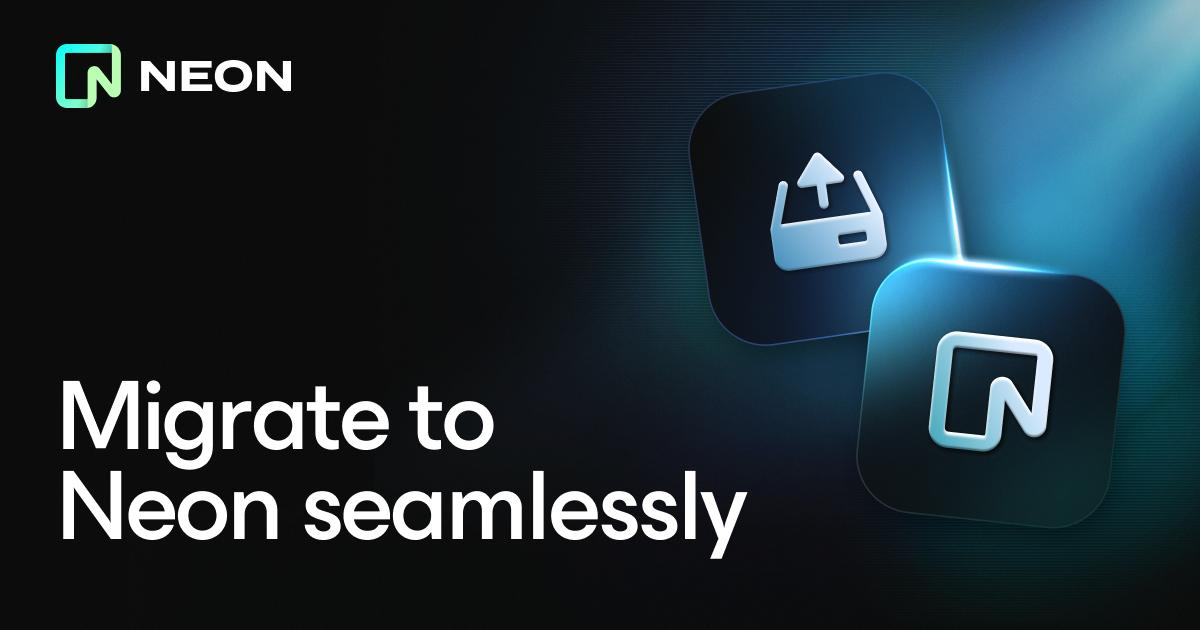
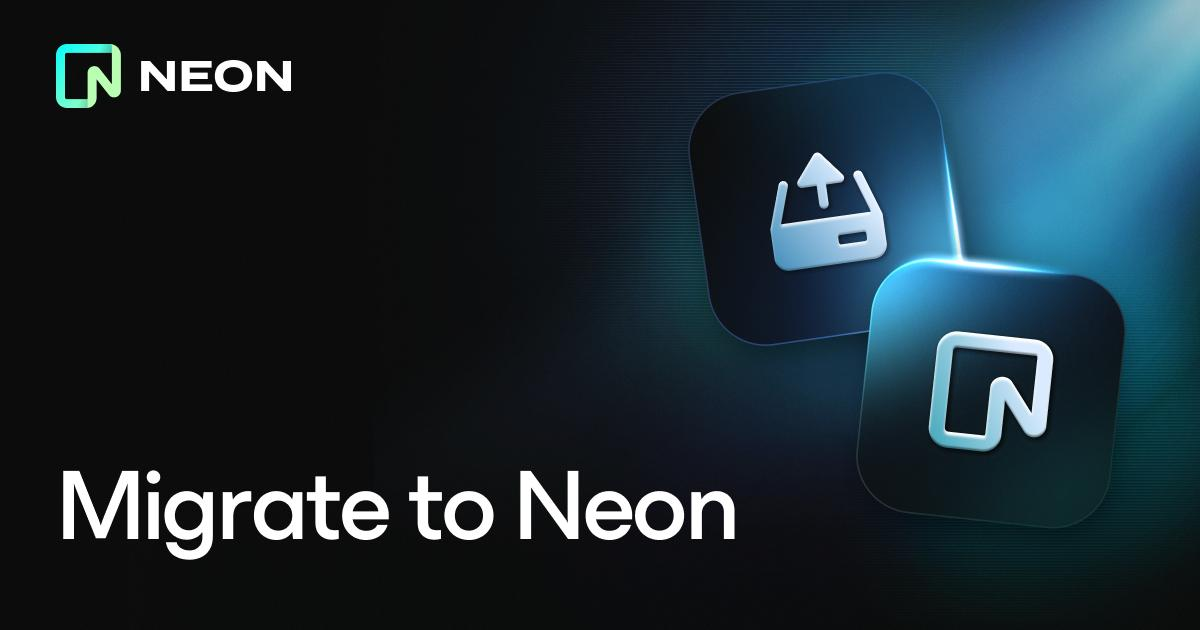
refactor(components): copy and images updates

Changed region(s): [[0.0308, 0.6032, 0.6167, 0.9048]]

diff --git a/src/app/migration/page.jsx b/src/app/migration/page.jsx
@@ -8,7 +8,7 @@ import Layout from 'components/shared/layout';
 import TestimonialNew from 'components/shared/testimonial-new';
 import LINKS from 'constants/links';
 import SEO_DATA from 'constants/seo-data';
-import authorCodyJenkins from 'images/authors/cody-jenkins.jpg';
+import authorTejasSiripurapu from 'images/authors/tejas-siripurapu.jpg';
 import getMetadata from 'utils/get-metadata';
 
 export const metadata = getMetadata(SEO_DATA.migration);
@@ -19,23 +19,23 @@ const MigrationPage = () => (
     <Task />
     <TaskSteps />
     <CardsSupport />
-    <GridFeatures />
     <TestimonialNew
       className="pt-[185px] xl:pt-[161px] lg:pt-[136px] md:pt-[97px]"
-      quote="Neon worked out of the box, handling hundreds of Lambdas without any of the connection issues we saw in Aurora Serverless v2. On top of that, Neon costs us 1/6 of what we were paying with AWS."
-      quoteClassName="max-w-[720px] lg:max-w-[620px] md:max-w-[520px]"
+      quote="Database migrations are always a headache, but the Neon team made it a smooth process. Their support helped us troubleshoot performance issues and get everything running fast"
+      quoteClassName="max-w-[670px] lg:max-w-[620px] md:max-w-[520px]"
       author={{
-        name: 'Cody Jenkins',
-        position: 'Head of Engineering at Invenco',
-        avatar: authorCodyJenkins,
+        name: 'Tejas Siripurapu',
+        position: 'Founding Engineer at Vapi.ai',
+        avatar: authorTejasSiripurapu,
       }}
     />
+    <GridFeatures />
     <CTA
       className="pb-[298px] pt-[296px] xl:pb-[259px] xl:pt-[250px] lg:pb-[186px] lg:pt-[182px] md:pb-[171px] md:pt-[157px]"
       title="18K+ databases created daily"
       titleClassName="max-w-[560px] leading-none xl:max-w-[500px] lg:max-w-[400px] md:max-w-[320px] xl:text-[56px] xl:leading-[90%] xl:tracking-[-0.03em] lg:text-[48px] lg:leading-[90%] md:text-balance md:text-[40px]"
-      buttonText="Get Started"
-      buttonUrl={LINKS.getStarted}
+      buttonText="Meet with our team"
+      buttonUrl={LINKS.contactSales}
       buttonClassName="mt-[32px] h-12 px-12 min-w-[144px] text-[16px] xl:mt-8 xl:px-11 lg:mt-7 md:mt-6 md:h-12 md:px-10 md:min-w-auto"
     />
   </Layout>

diff --git a/src/components/pages/migration/hero/hero.jsx b/src/components/pages/migration/hero/hero.jsx
@@ -39,7 +39,7 @@ const Hero = () => (
       <Button
         className="mt-9 h-12 min-w-40 px-[38px] font-semibold tracking-tighter lg:mt-7 lg:h-11 lg:px-8 lg:text-sm md:mt-6"
         theme="primary"
-        to={LINKS.signup}
+        to={LINKS.docsMigration}
         target="_blank"
         tagName="Migration Page Hero"
       >
